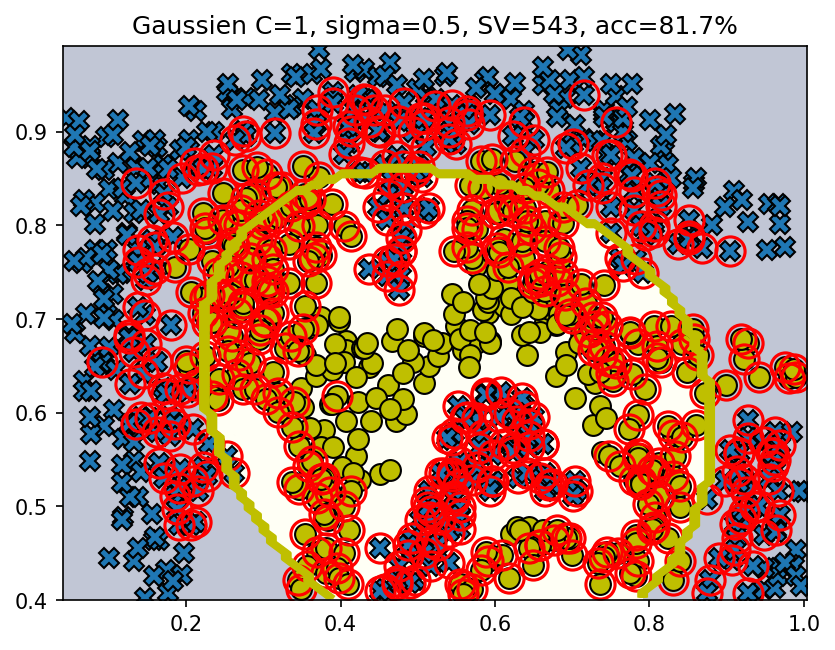
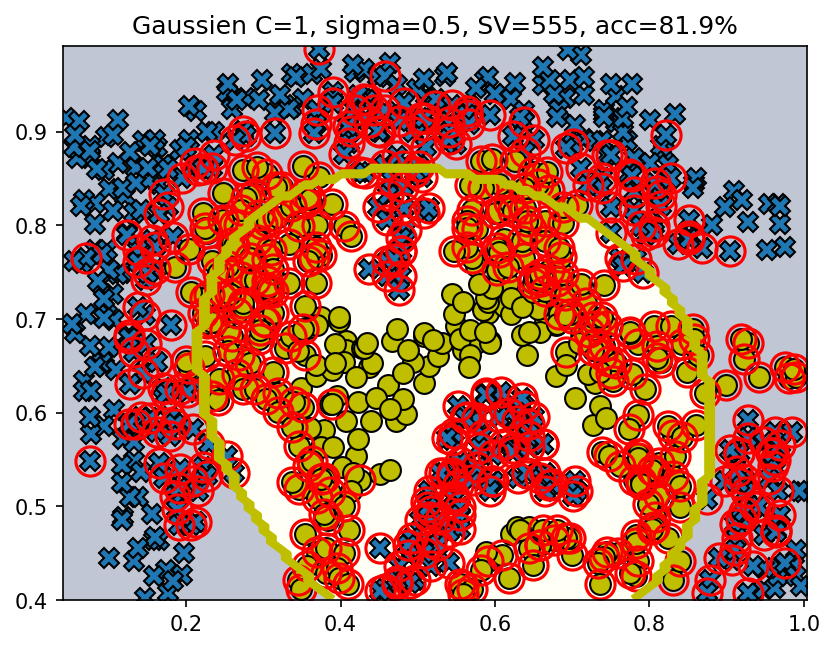
done

diff --git a/tp2/svm.py b/tp2/svm.py
@@ -24,7 +24,7 @@ def traceData(X, y, grid=False, model=None):
                     mfc='none', mec='r', ms=14, mew=1.5)
     pyplot.grid(grid)
 
-def svmModel(X, Y, C, kernelFunction, tol=1e-3, max_passes=5, args=()):
+def svmModel(X, Y, C, kernelFunction, tol=1e-3, max_passes=20, args=()):
    
     # make sure data is signed int
     Y = Y.astype(int)
